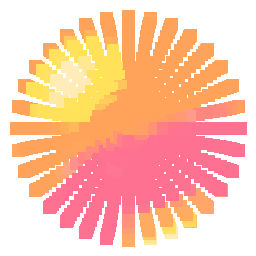
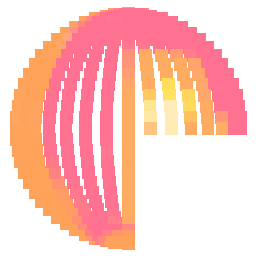
Implemented Rotor3::rotate.

diff --git a/src/bin/rasterize.rs b/src/bin/rasterize.rs
@@ -99,6 +99,7 @@ struct Rotor3 {
 }
 
 impl Rotor3 {
+    /*
     fn new() -> Self {
         Rotor3 {
             s: 0.0,
@@ -107,6 +108,7 @@ impl Rotor3 {
             yz: 0.0,
         }
     }
+    */
     fn new_from_vert_to_vert(a: Vertex, b: Vertex) -> Self{
         let bv: BiVec3 = outer3(&a, &b);
         let mut r =  Rotor3 {
@@ -127,9 +129,19 @@ impl Rotor3 {
         self.s /= length;
         self.xy /= length; self.xz /= length; self.yz /= length;
     }
-    //fn rotate(v: Vertex) -> Vertex {
-        //TODO!
-    //}
+    fn rotate(self, v: &Vertex) -> Vertex {
+        let tmp_x: f32 = self.s * v.x + v.y * self.xy + v.z * self.xz;
+        let tmp_y: f32 = self.s * v.y - v.x * self.xy + v.z * self.yz;
+        let tmp_z: f32 = self.s * v.z - v.x * self.xz - v.y * self.yz;
+        let tri: f32 = v.x * self.yz - v.y * self.xz + v.z * self.xy;
+        let r_x: f32 = self.s * tmp_x + tmp_y * self.xy + tmp_z * self.xz + tri   * self.yz;
+        let r_y: f32 = self.s * tmp_y - tmp_x * self.xy - tri   * self.xz + tmp_z * self.yz;
+        let r_z: f32 = self.s * tmp_z + tri   * self.xy - tmp_x * self.xz - tmp_y * self.yz;
+        let mut vert: Vertex = Vertex::new_with_xyz(r_x, r_y, r_z);
+        vert.nx = v.nx; vert.ny = v.ny; vert.nz = v.nz;
+        vert.r = v.r; vert.g = v.g; vert.b = v.b; vert.a = v.a;
+        return vert
+    }
 }
 
 fn outer3 (a: &Vertex, b: &Vertex) -> BiVec3 {
@@ -169,10 +181,14 @@ fn main () {
     }   
 
     // rotate
-    let v1 = Vertex::new_with_xyz(0.0, 0.0, 1.0);
-    let v2 = Vertex::new_with_xyz(0.0, 1.0, 0.0);
-    let r = Rotor3::new_from_vert_to_vert(v1, v2);
-    //TODO: implement Rotor3::rotate()
+    let mut rotated_vertices = Vec::new();
+    for vert in &vertices {
+        let v1 = Vertex::new_with_xyz(0.0, 0.0, -1.0);
+        let v2 = Vertex::new_with_xyz(0.0, 1.0, 0.0);
+        let rotor = Rotor3::new_from_vert_to_vert(v1, v2);
+        let rotated_vert: Vertex = rotor.rotate(&vert);
+        rotated_vertices.push( rotated_vert );
+    }
 
     //println!("vertices: {:#?}", vertices);
     
@@ -180,7 +196,7 @@ fn main () {
 
     for y in 0..=255 {
         for x  in 0..=255 {
-            pixel_sample_ply(x, y, 0.05, &vertices, &mut pixels);
+            pixel_sample_ply(x, y, 0.05, &rotated_vertices, &mut pixels);
         }
     }
 
